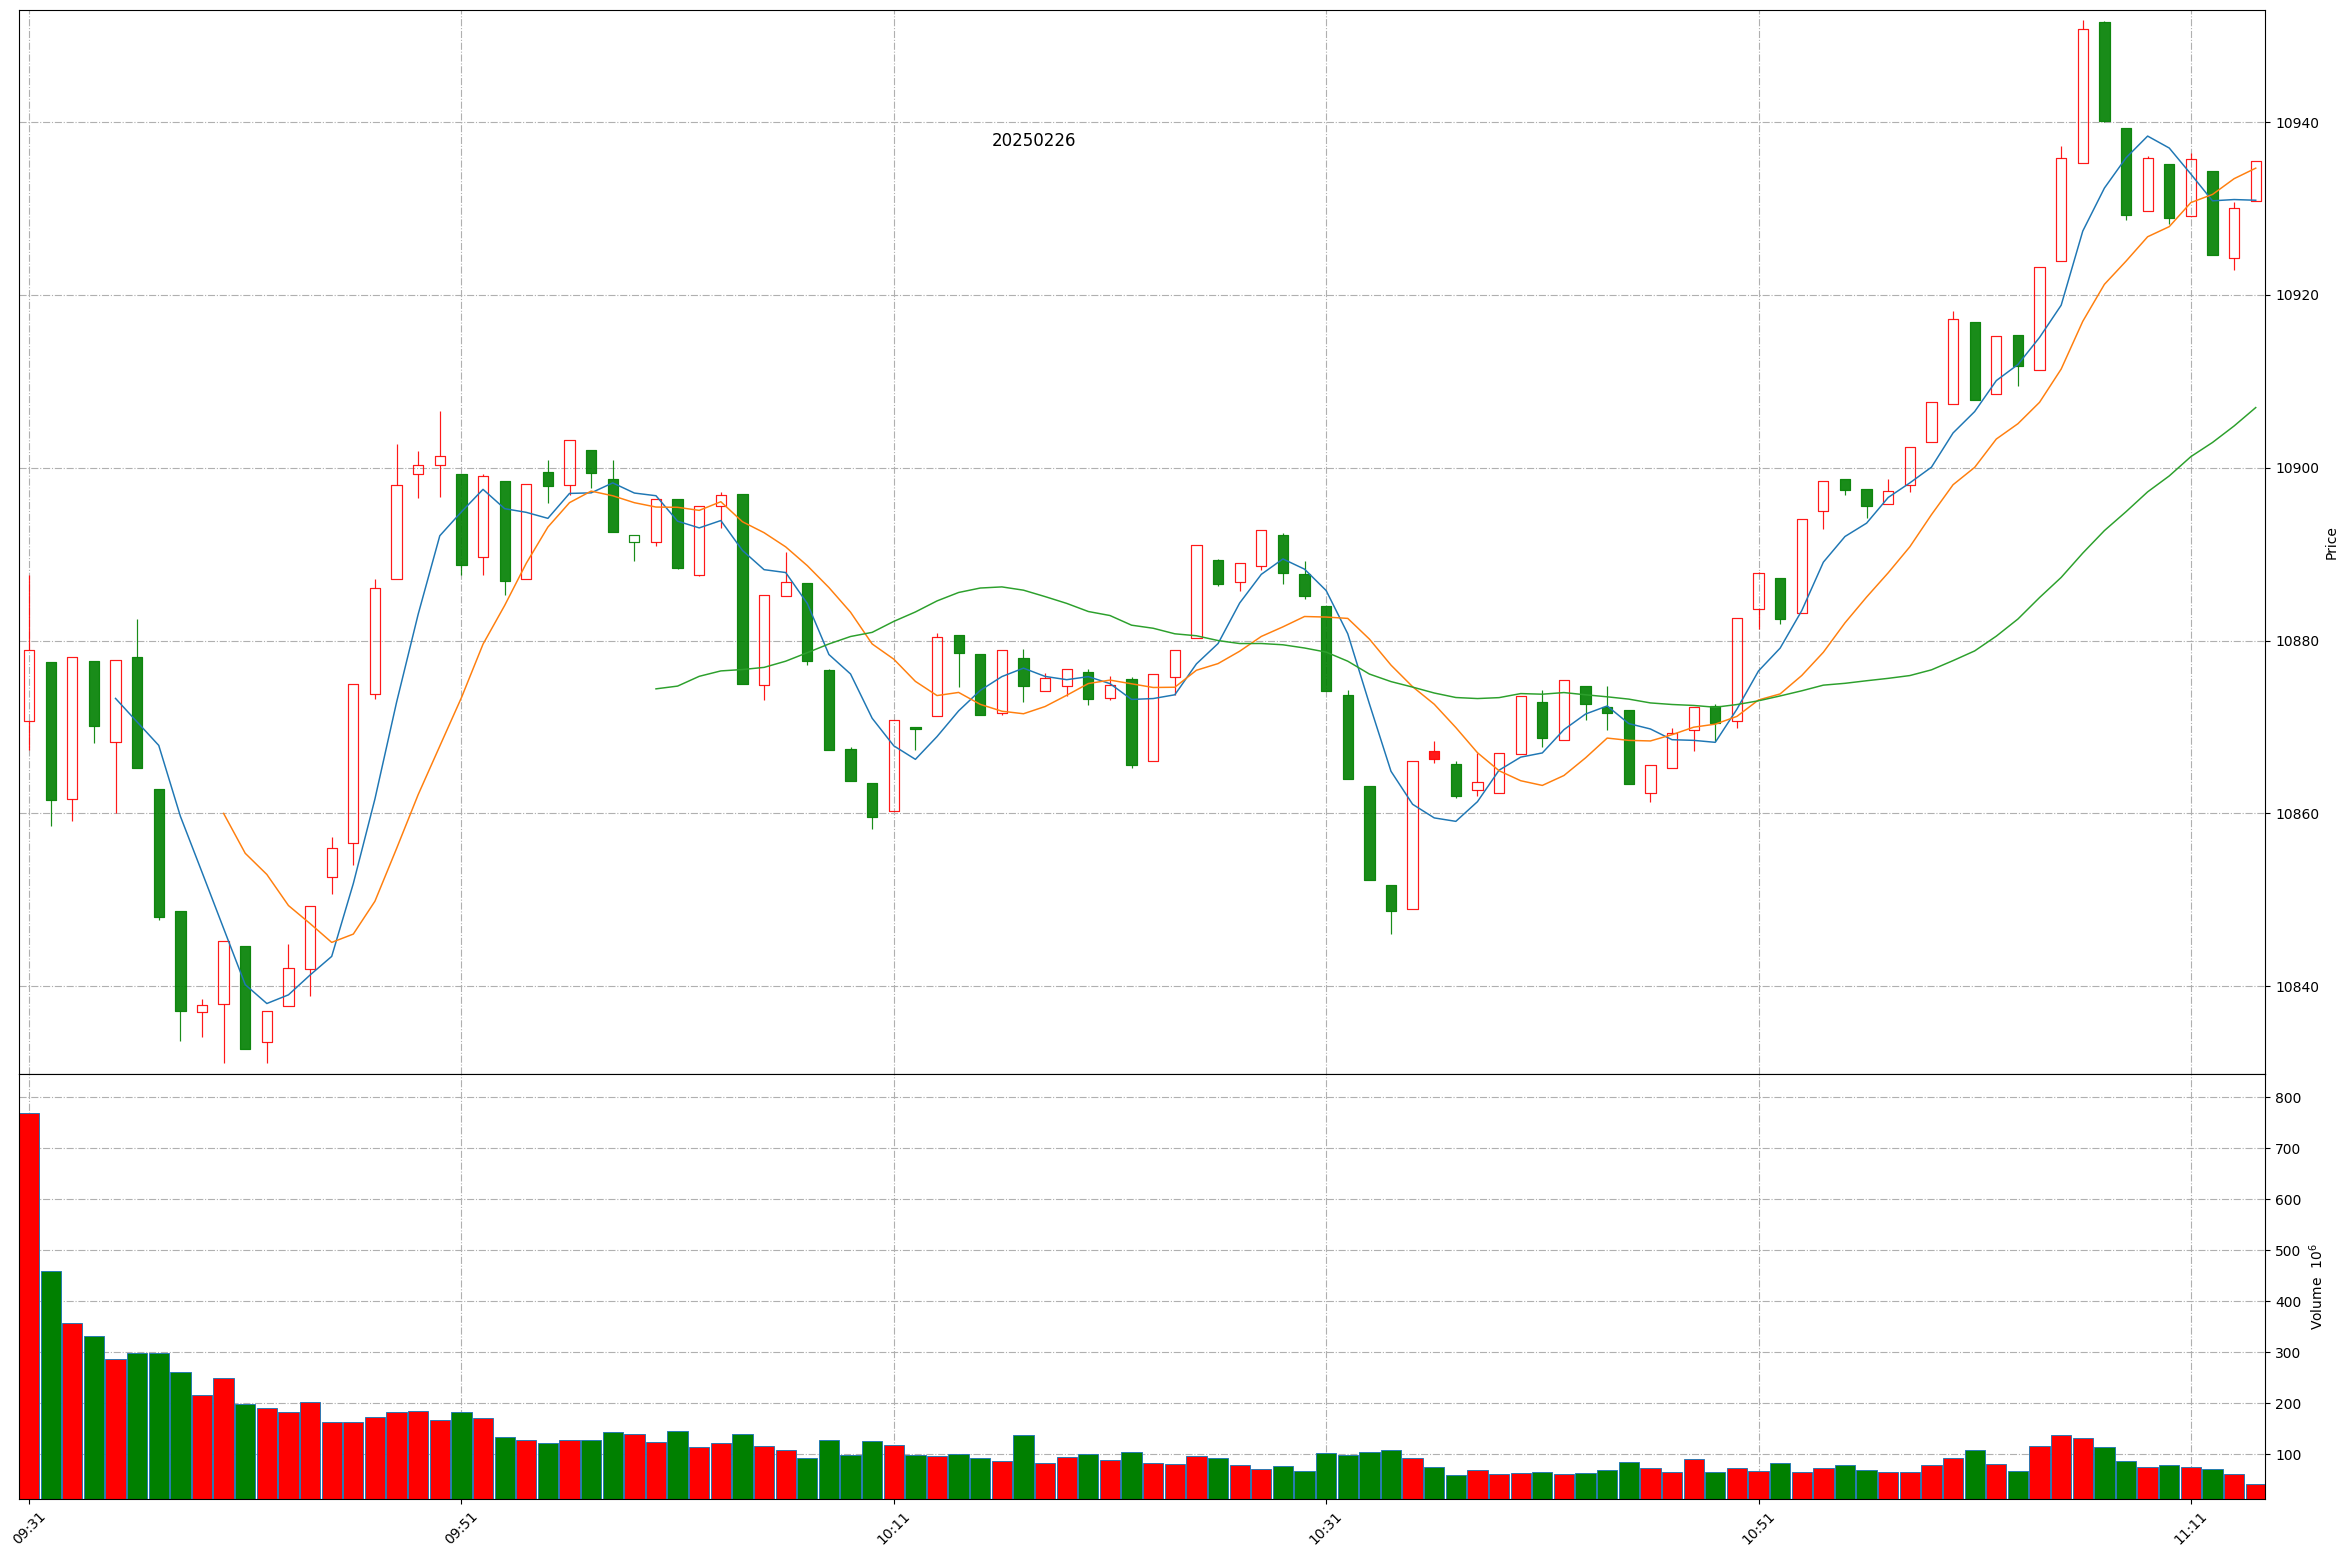
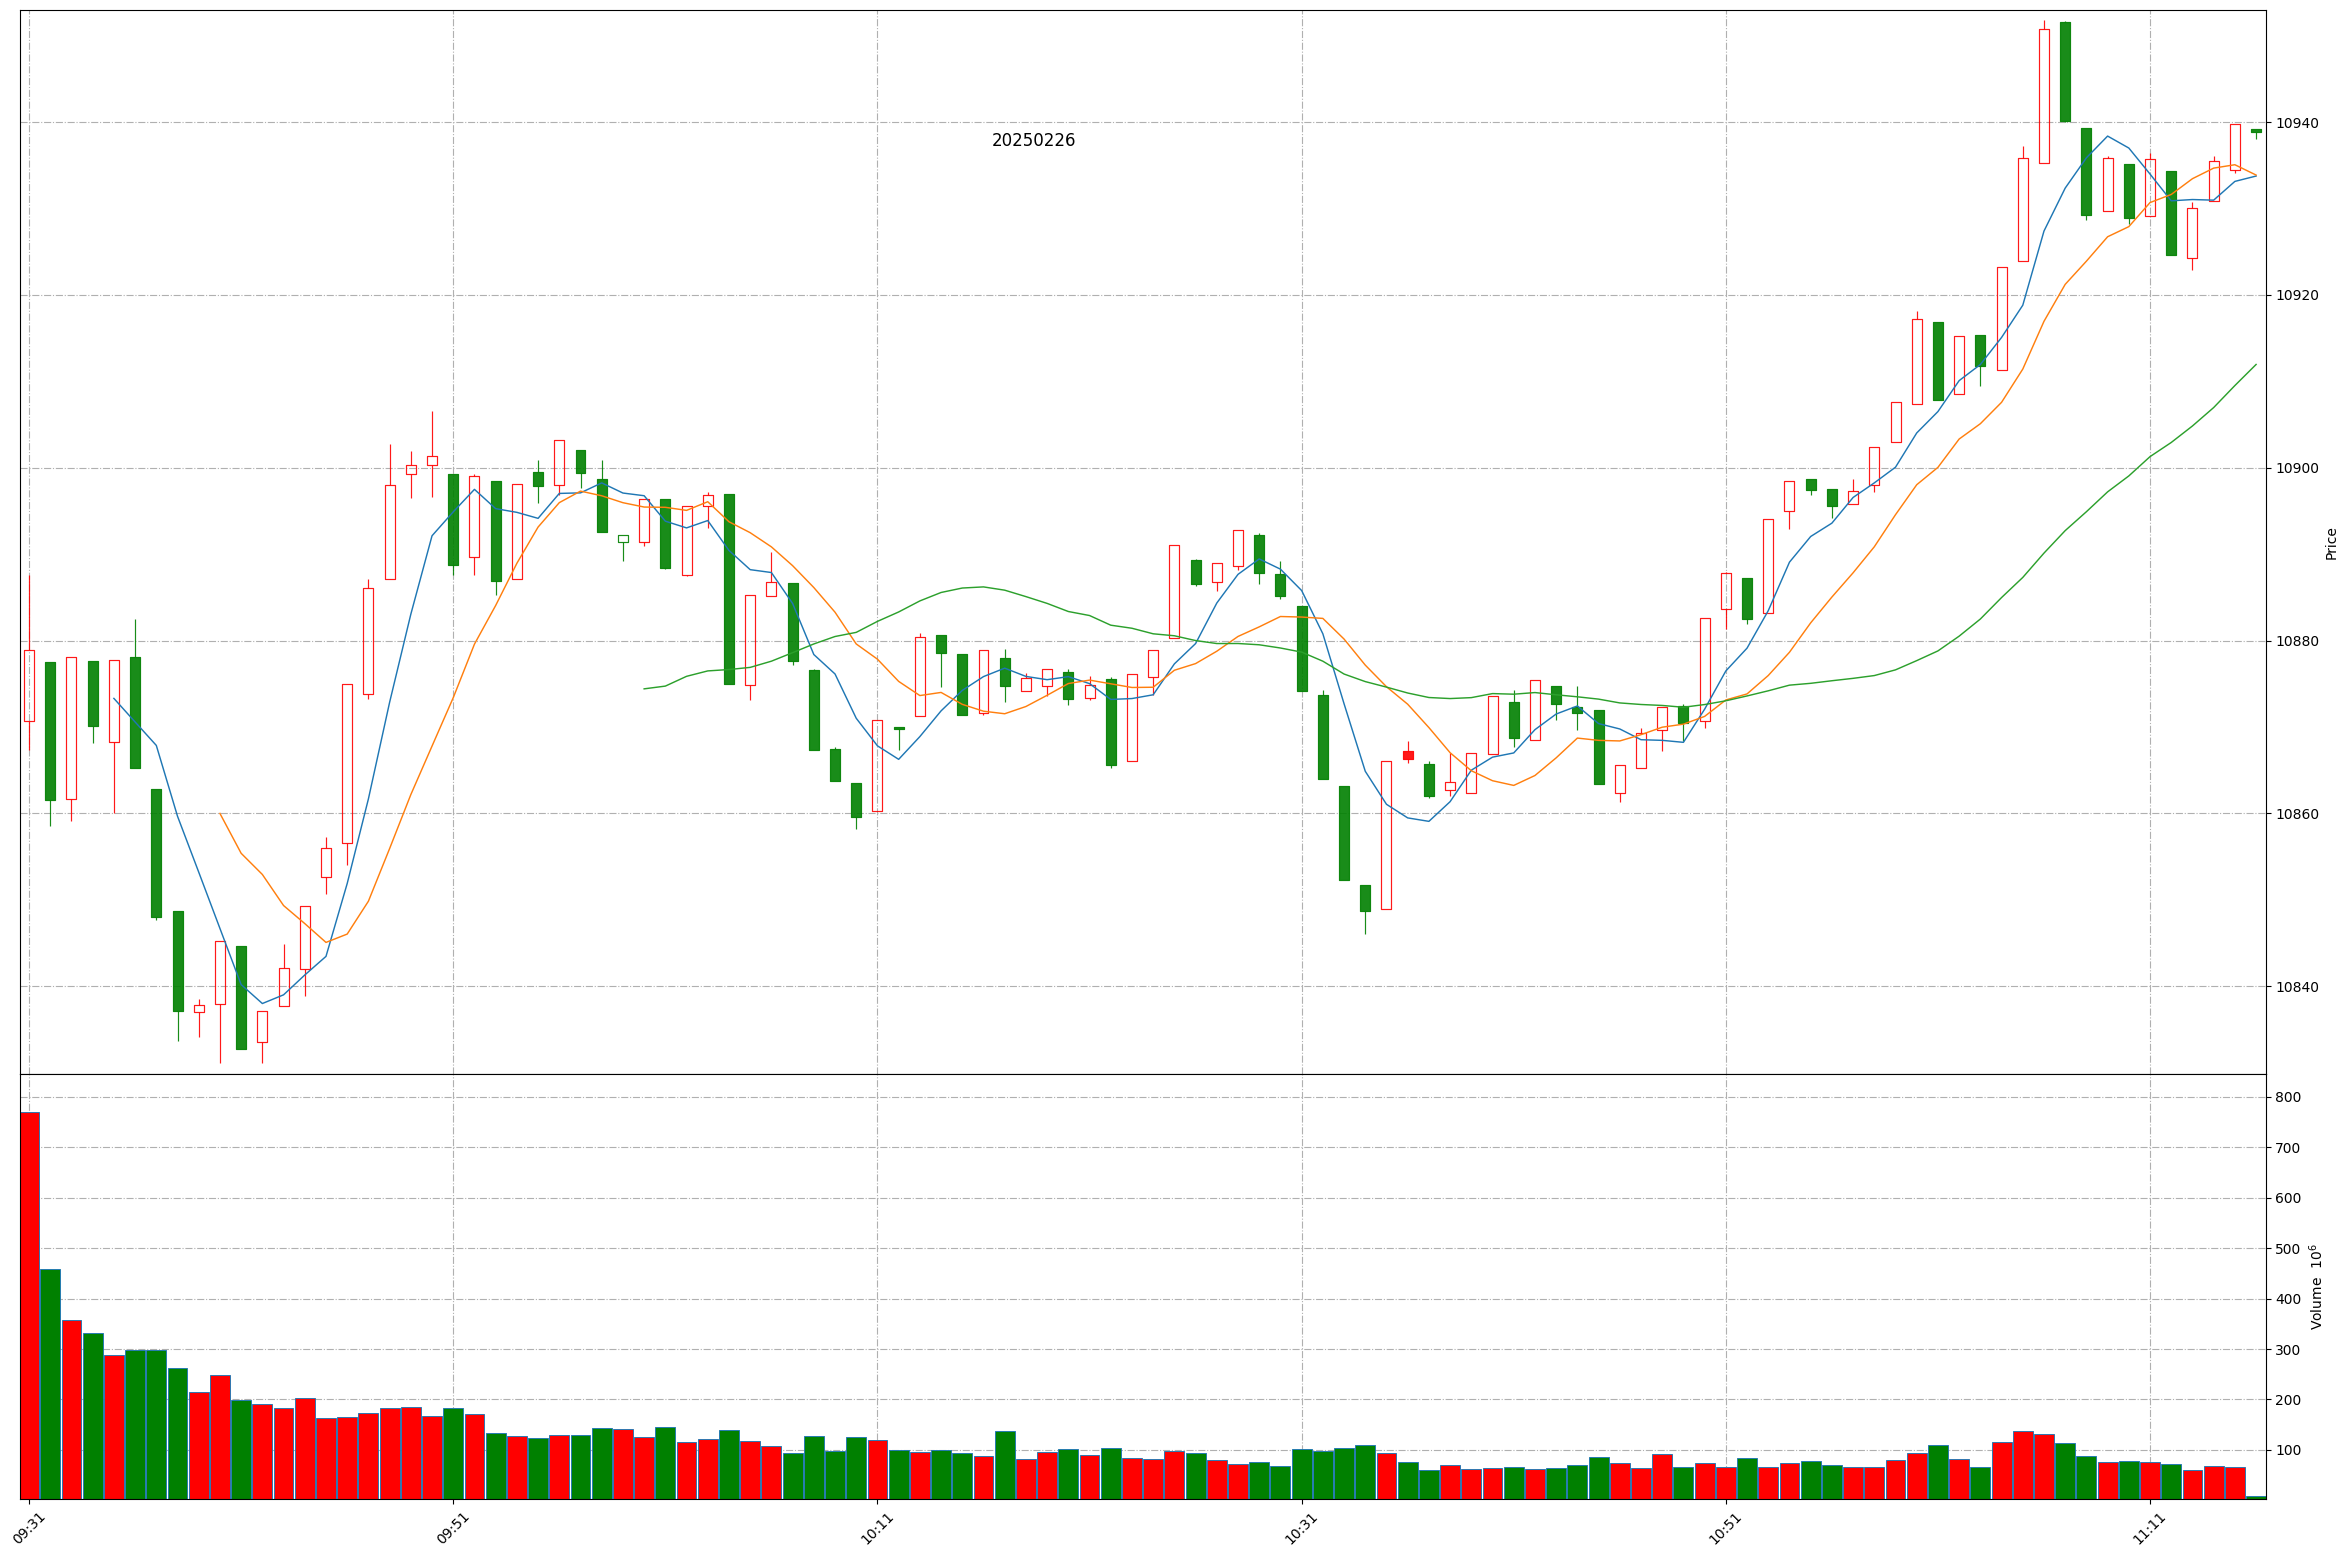
Github action update at 2025-02-26 11:15:21.

diff --git a/README.md b/README.md
@@ -1,11 +1,11 @@
 
 # Daily-A-share-market-quotes 每日 A 股指数（5min 更新）- 20250226
 
-### 上证指数 20250226 11:13
+### 上证指数 20250226 11:15
 ![](./fig/2025/2/20250226-sh000001.png)
 
-### 深证成指 20250226 11:13
+### 深证成指 20250226 11:15
 ![](./fig/2025/2/20250226-sz399001.png)
 
-### 北证50 20250226 11:13
+### 北证50 20250226 11:15
 ![](./fig/2025/2/20250226-bj899050.png)
